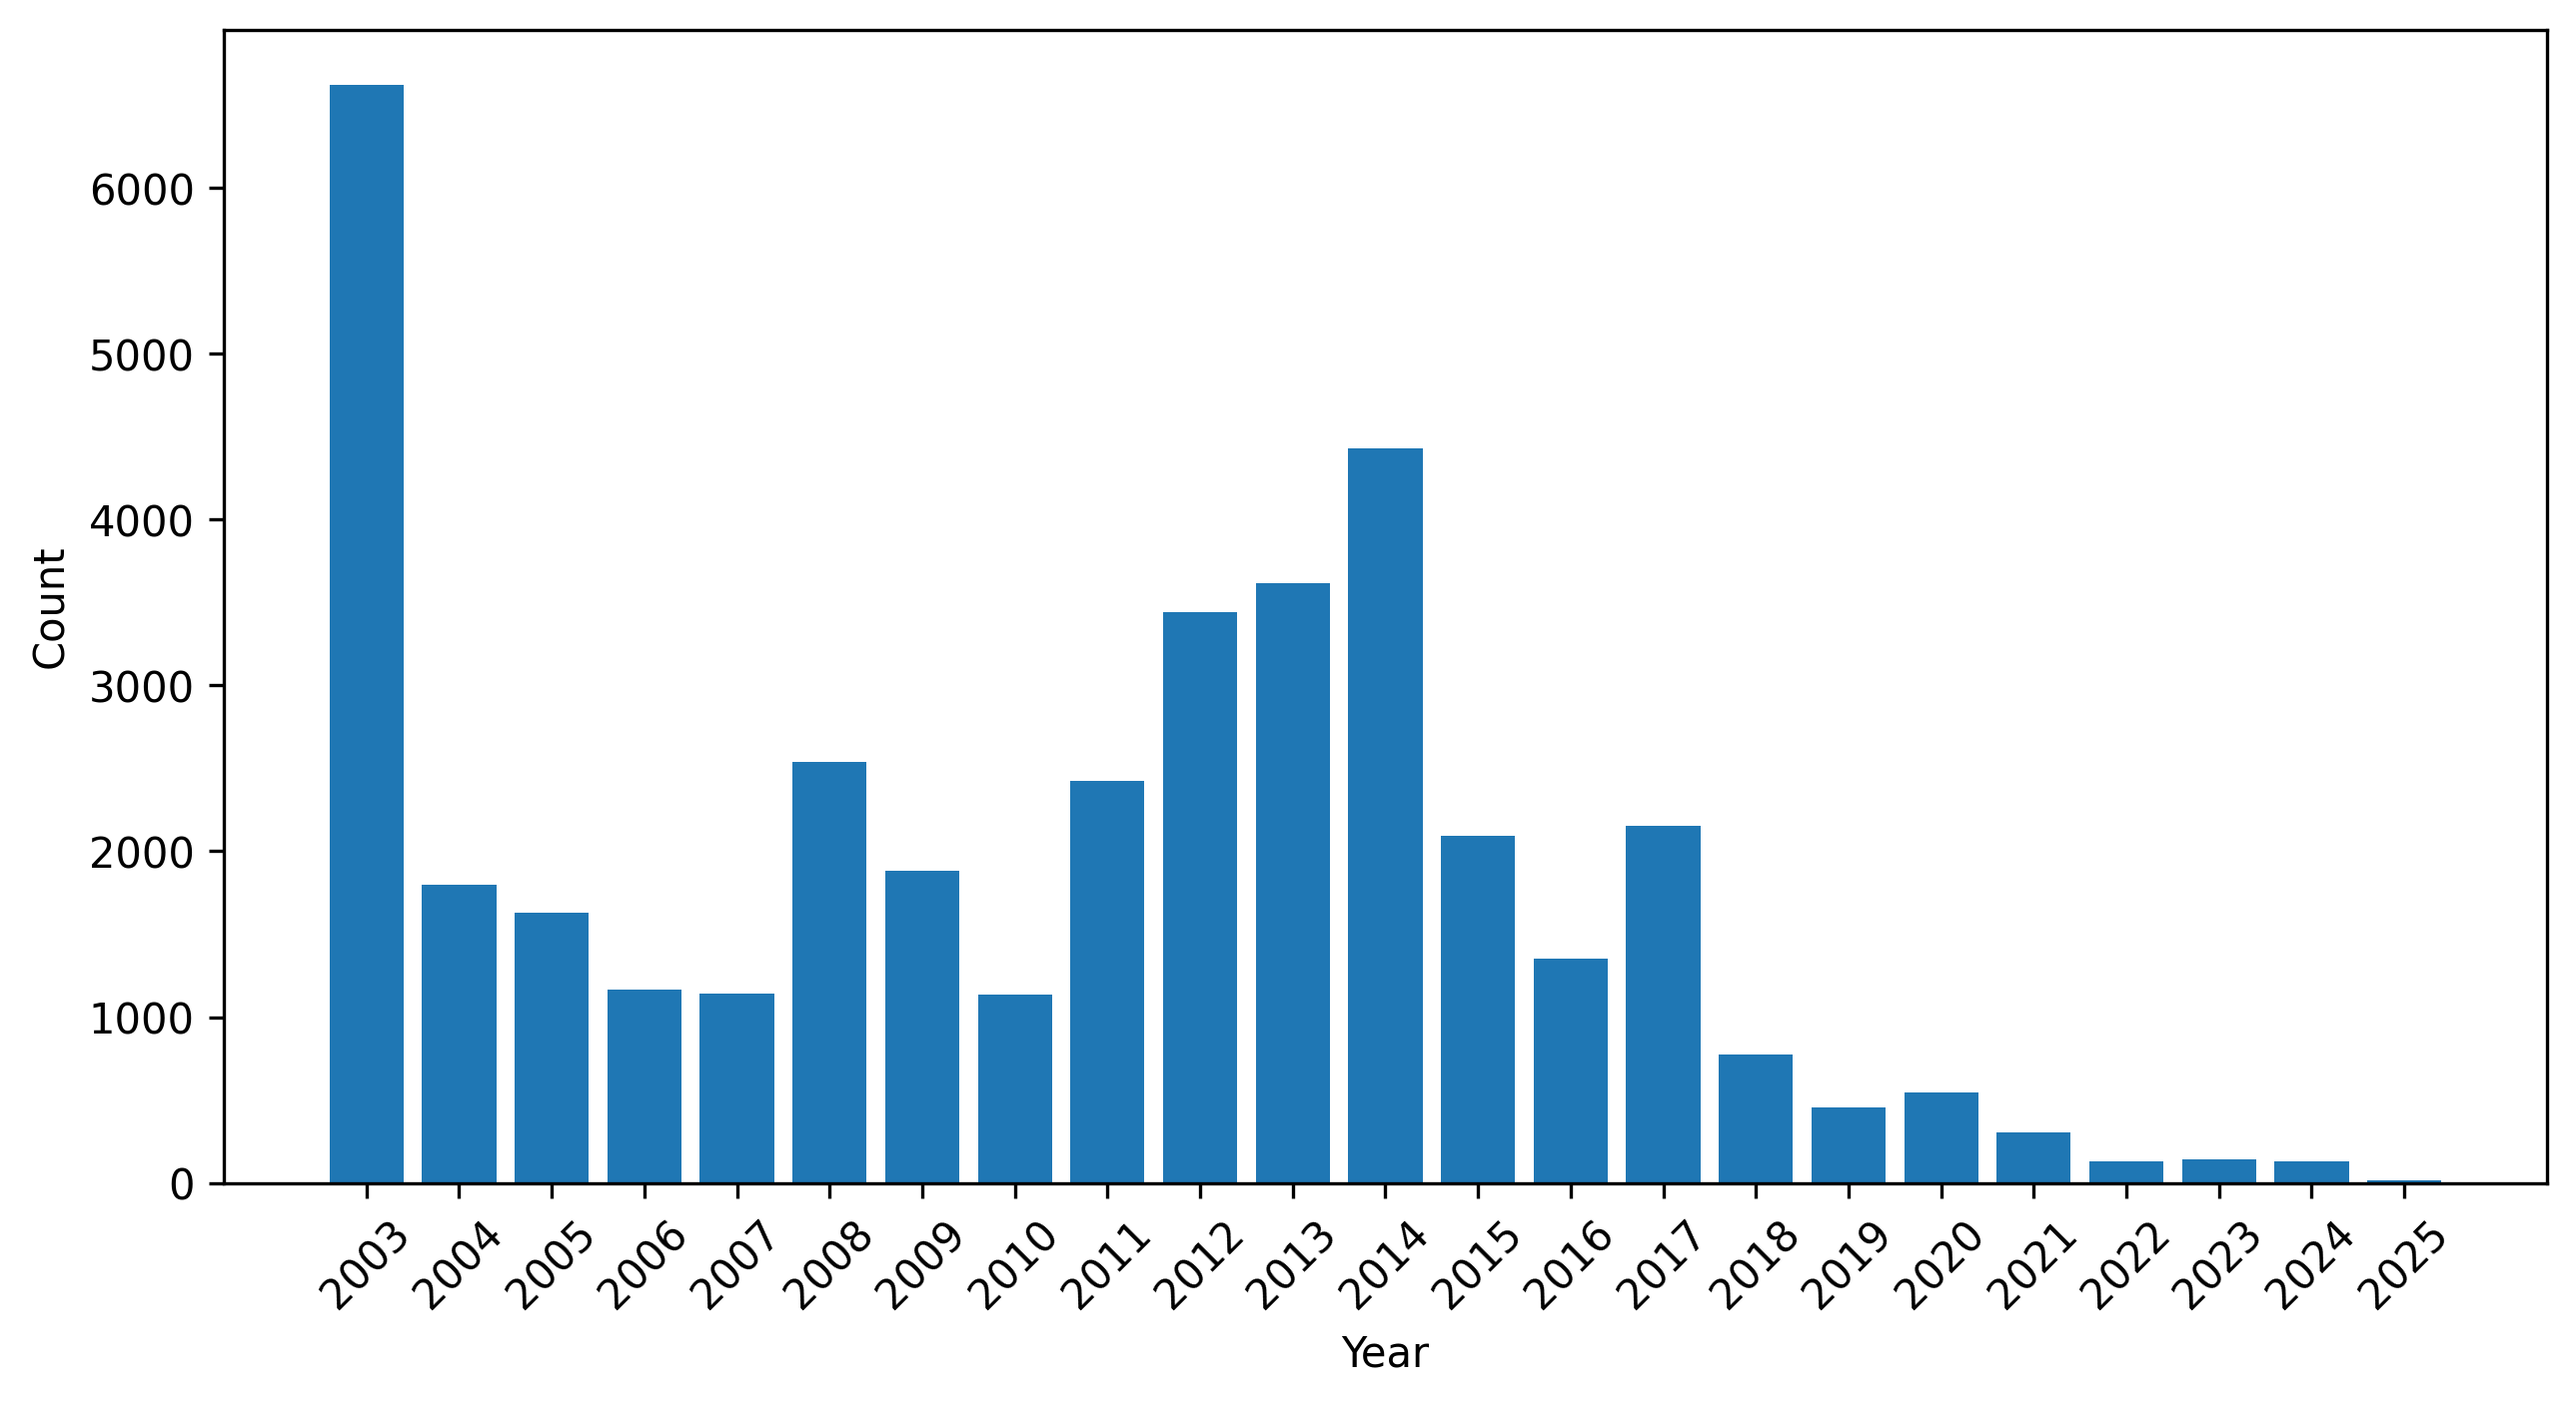
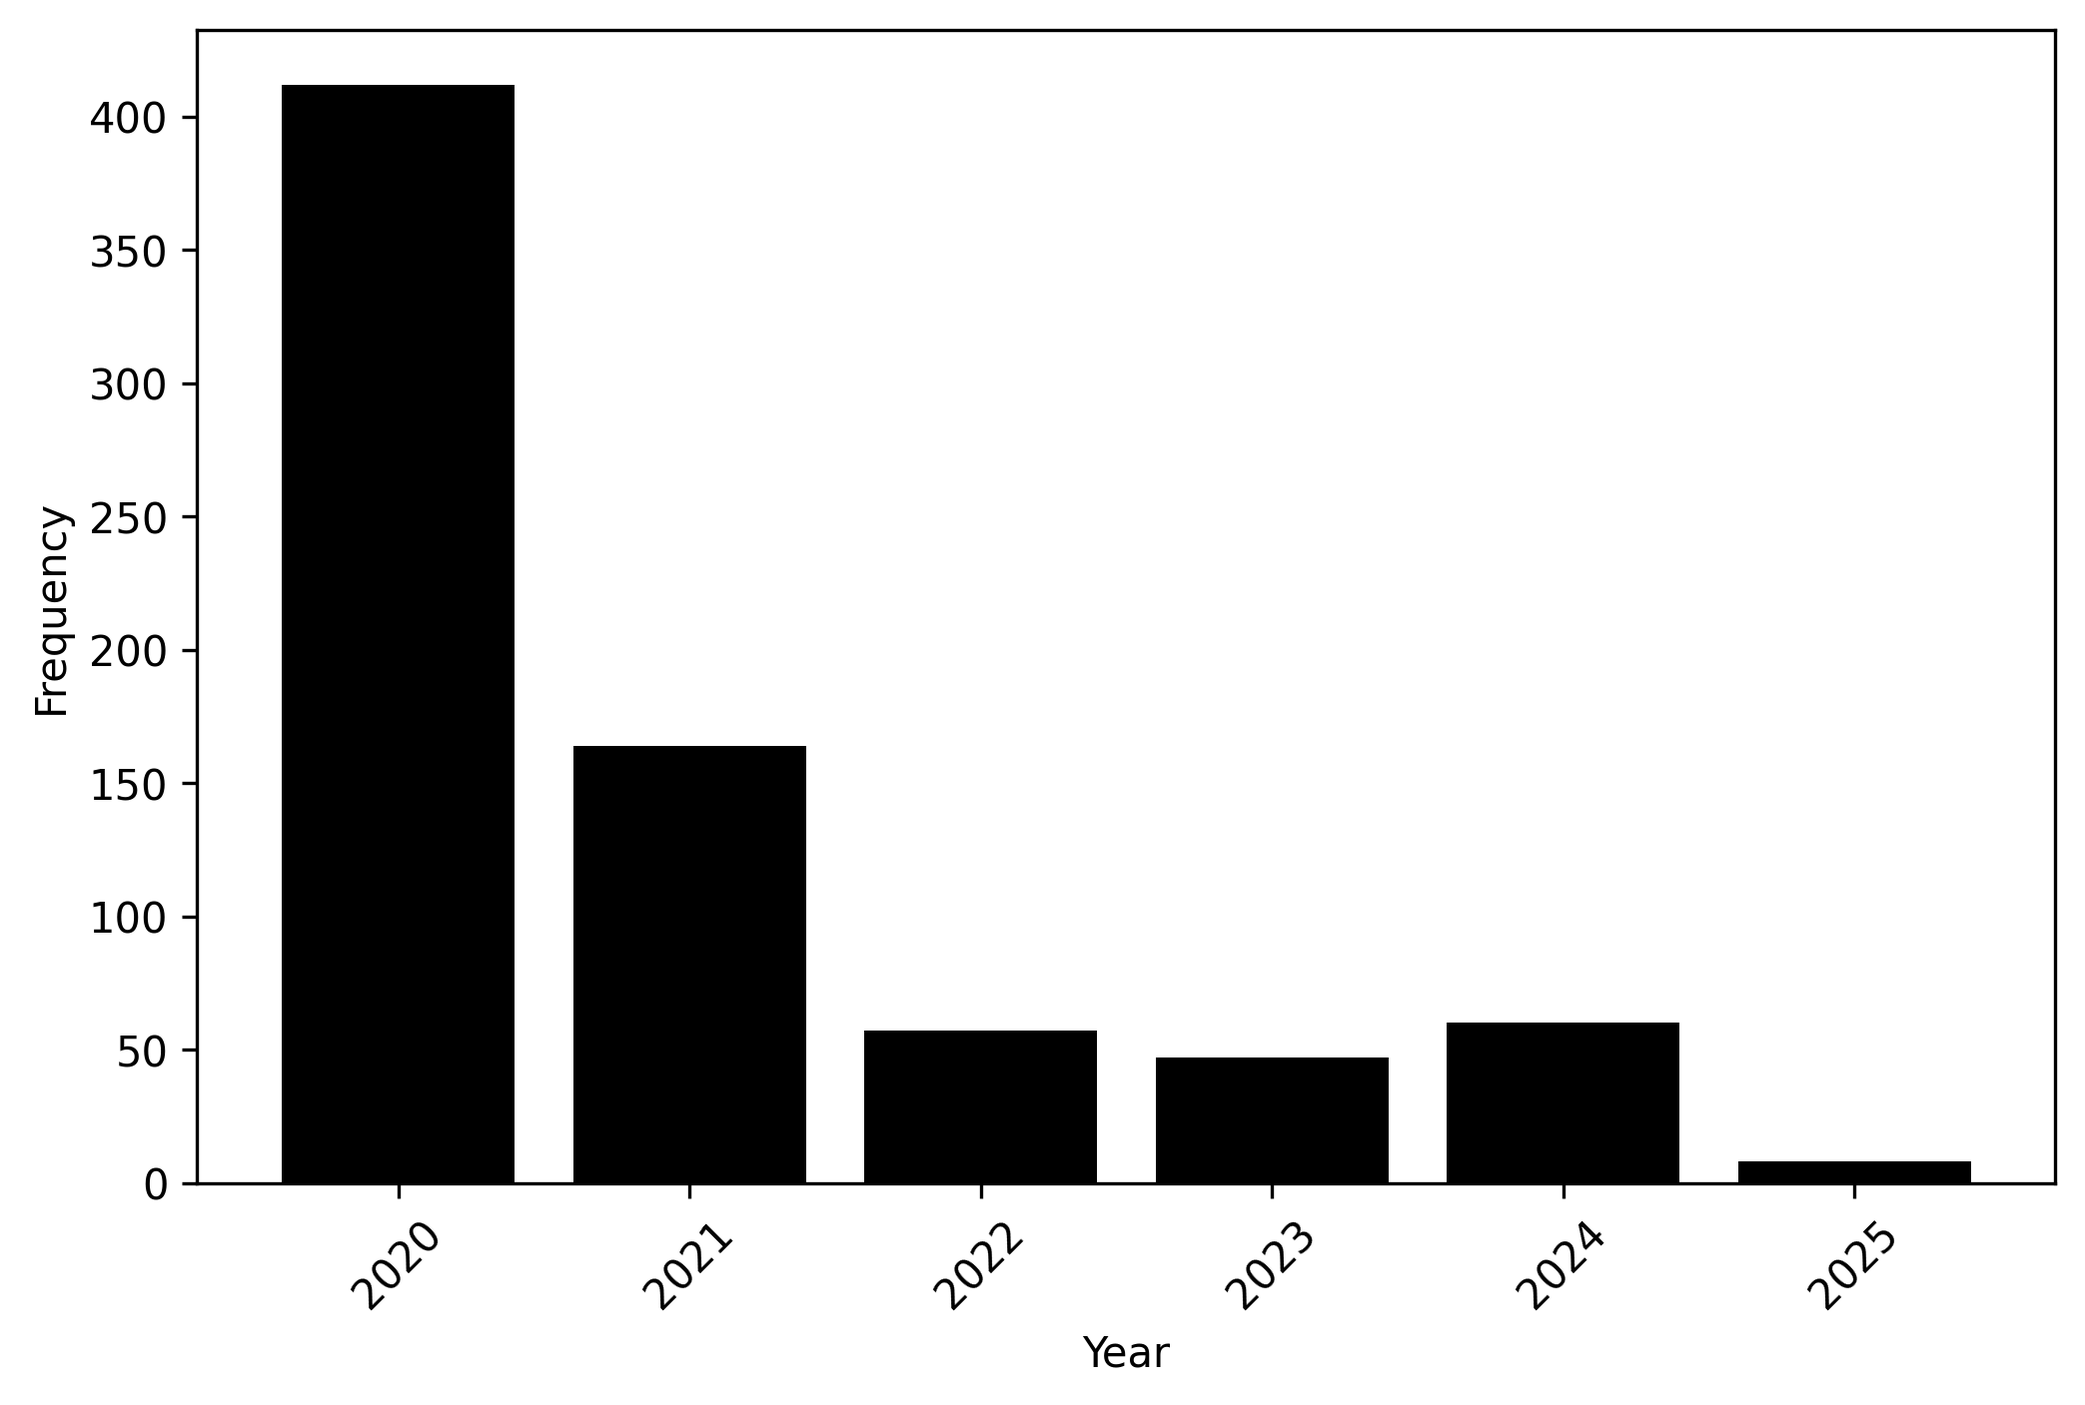
redo year visualization

diff --git a/visualization/year_distribution.py b/visualization/year_distribution.py
@@ -1,0 +1,28 @@
+import json
+import matplotlib.pyplot as plt
+from collections import Counter
+
+
+file_path = '../data/naver_opendict_ko_official.jsonl'
+years = []
+
+with open(file_path, 'r', encoding='utf-8') as f:
+    for line in f:
+        data = json.loads(line)
+        year = data.get("date", "").split("-")[0]
+        if year:
+            years.append(year)
+
+
+
+year_counts = Counter(years)
+
+sorted_years = sorted(year_counts.keys())
+sorted_counts = [year_counts[year] for year in sorted_years]
+
+plt.figure(figsize=(8, 5))
+plt.bar(sorted_years, sorted_counts, color='black')
+plt.xlabel("Year")
+plt.ylabel("Frequency")
+plt.xticks(rotation=45)
+plt.savefig("year_distribution.png", bbox_inches='tight', pad_inches=0.1, dpi=300)
